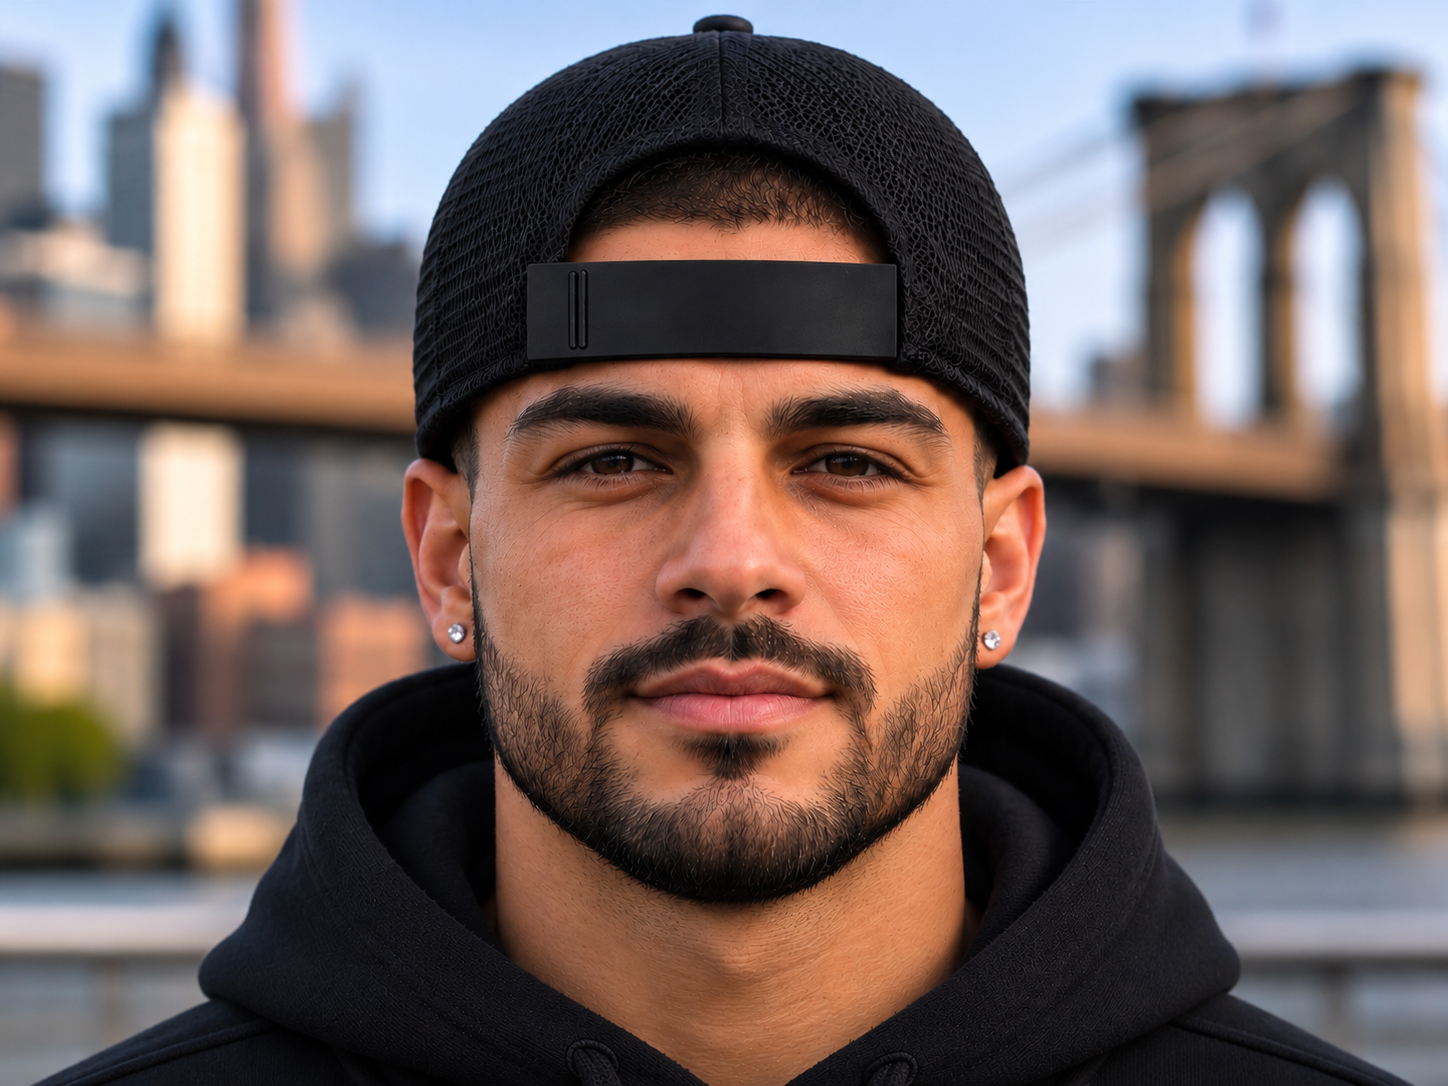
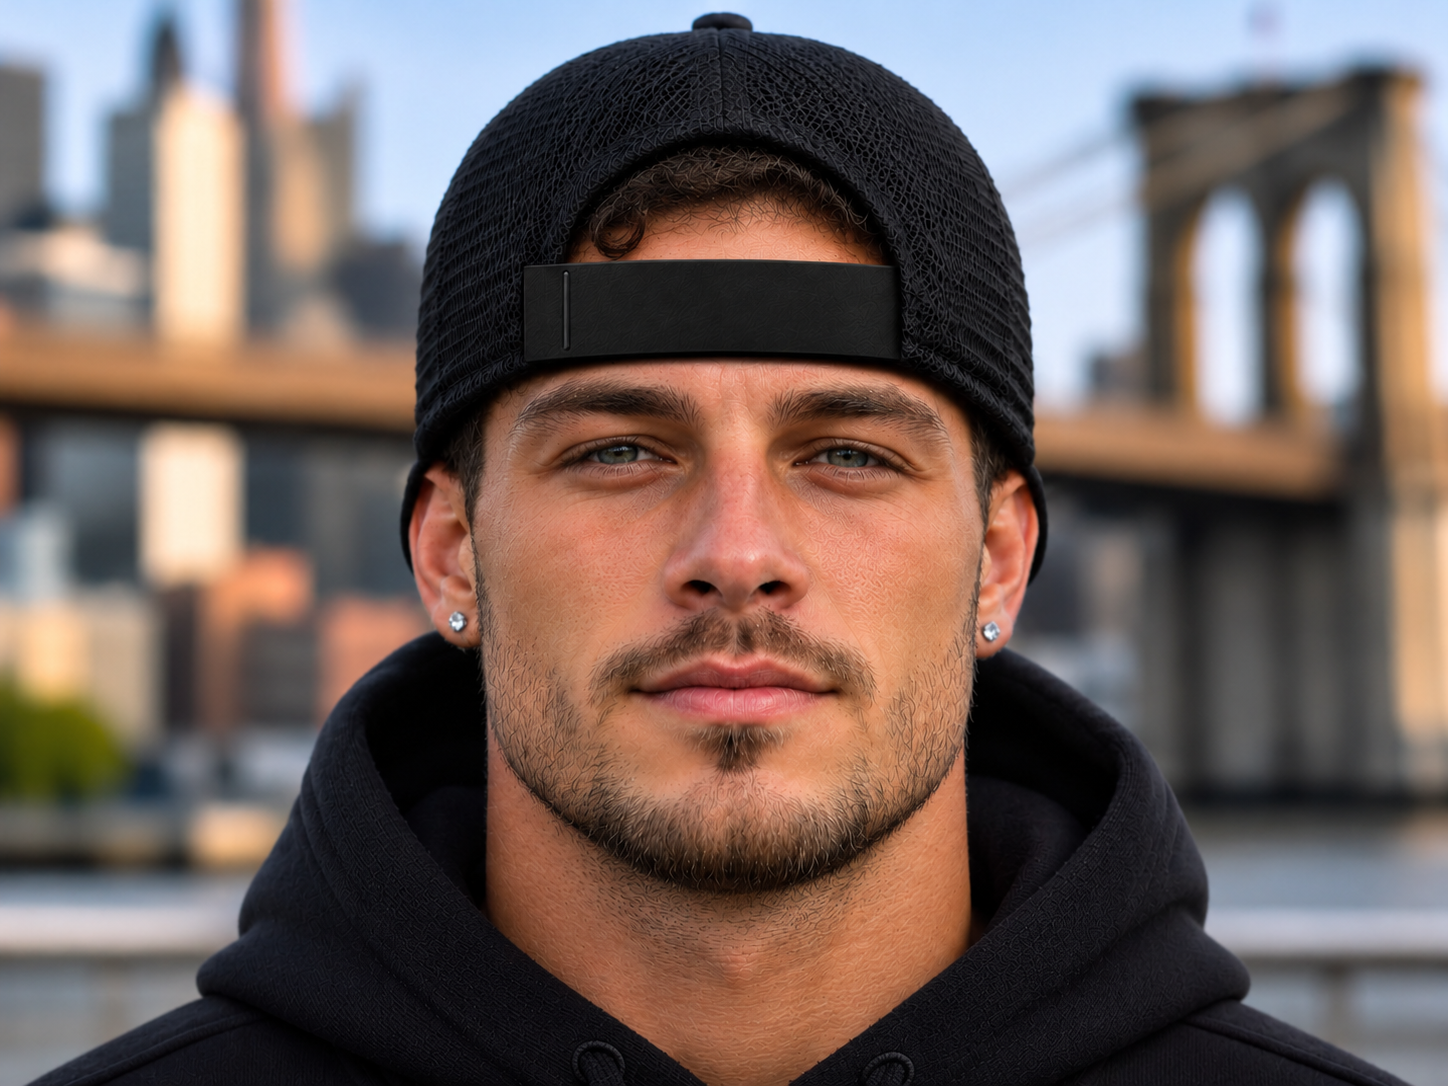
Use updated male lifestyle master

diff --git a/src/components/SnapInkSleeveCustomizer.tsx b/src/components/SnapInkSleeveCustomizer.tsx
@@ -2117,7 +2117,7 @@ const SnapInkSleeveCustomizer = forwardRef<
   }
 
   async function renderLifestyleProductPhoto(key:"maleLifestyle"|"femaleLifestyle", artworkImage:HTMLImageElement) {
-    const master=await loadStudioImage(`/images/product_images/${key==="maleLifestyle"?"male_master_lifestyle.png":"female_master_lifestyle.png"}`);
+    const master=await loadStudioImage(`/images/product_images/${key==="maleLifestyle"?"male_master.png":"female_master_lifestyle.png"}`);
     if(master.naturalWidth!==1448||master.naturalHeight!==1086) throw new Error("The approved lifestyle master must remain 4:3.");
     const canvas=document.createElement("canvas");canvas.width=master.naturalWidth;canvas.height=master.naturalHeight;
     const ctx=canvas.getContext("2d");if(!ctx)throw new Error("The lifestyle image canvas is unavailable.");
